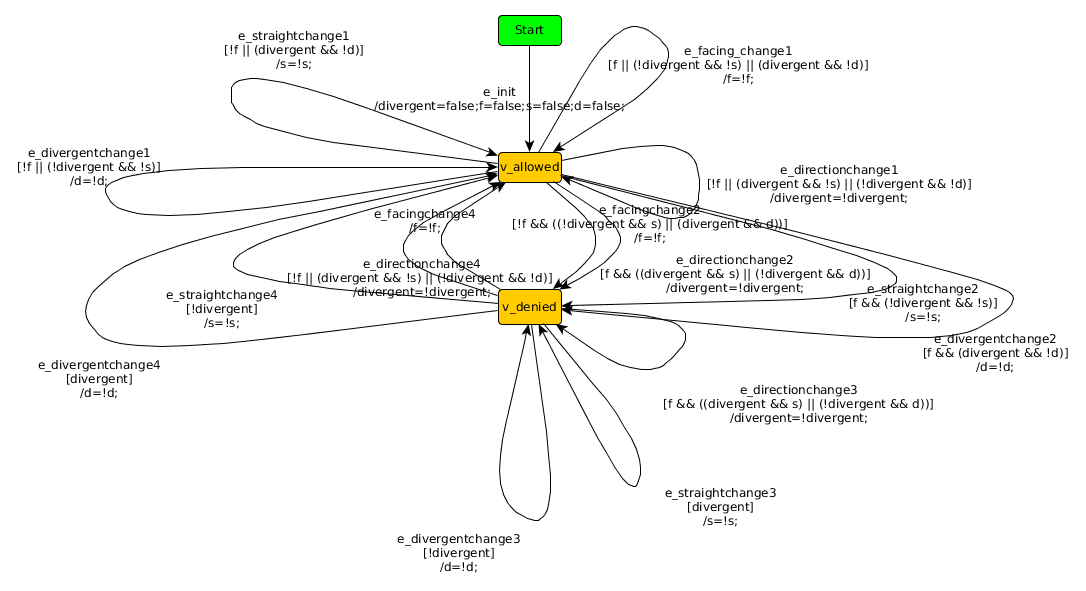
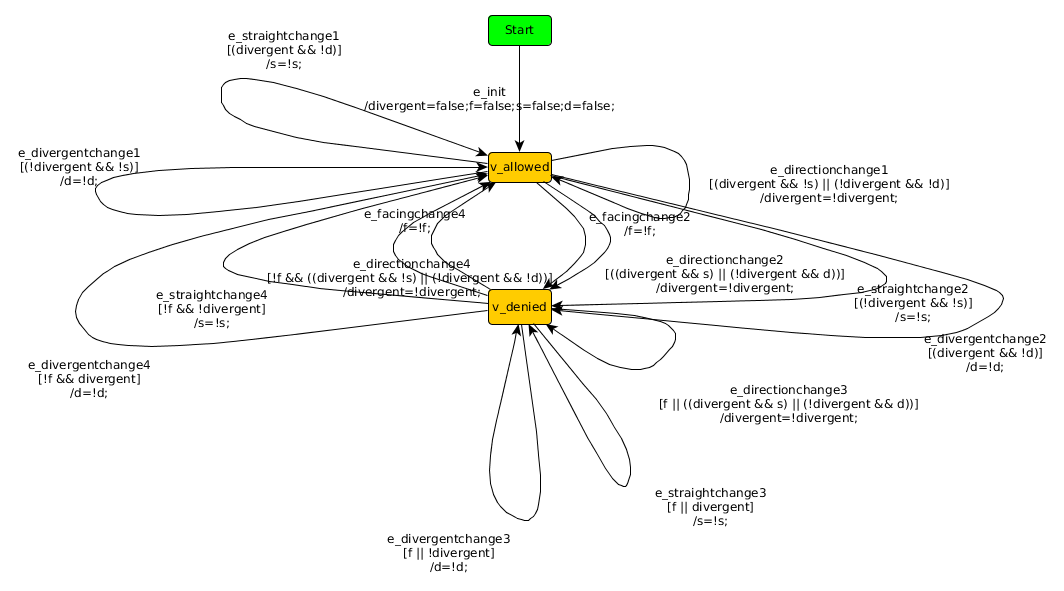
MBT facing: correct wrong behaviour

diff --git a/src/swsv-ris/src/test/java/hu/bme/mit/swsv/ris/tsm/test/FacingStatusTest.java b/src/swsv-ris/src/test/java/hu/bme/mit/swsv/ris/tsm/test/FacingStatusTest.java
@@ -156,9 +156,4 @@ public class FacingStatusTest extends ExecutionContext implements FacingStatus {
 		occupancyChange(Side.STRAIGHT);
 	}
 
-	@Override
-	public void e_facing_change1() {
-		occupancyChange(Side.FACING);
-	}
-
 }
